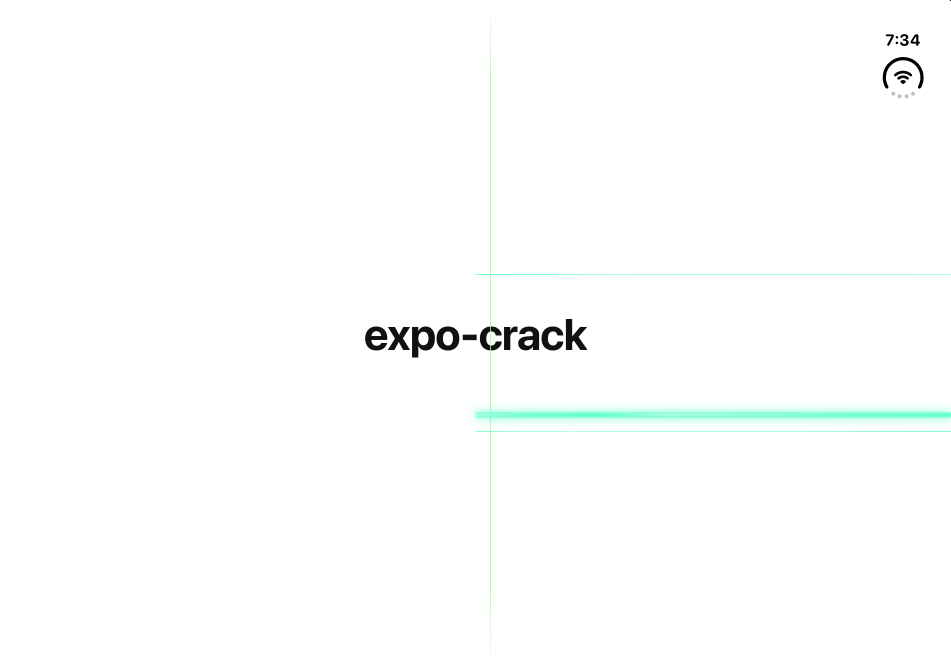
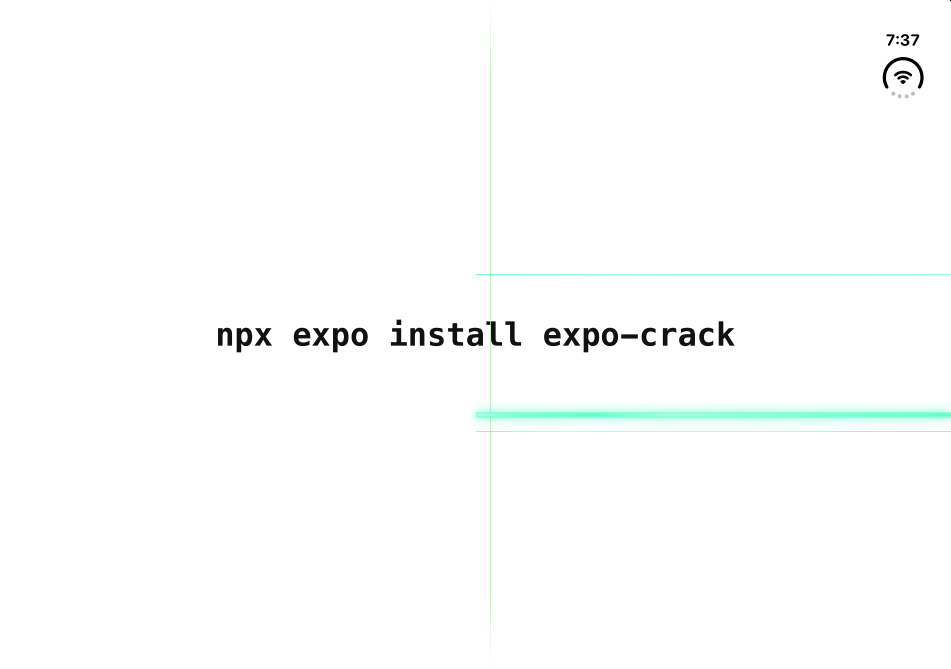
titles the example with the install command

Changed region(s): [[0.2135, 0.4783, 0.7928, 0.5381], [0.9453, 0.0299, 0.9758, 0.0897]]

diff --git a/example/App.tsx b/example/App.tsx
@@ -1,11 +1,13 @@
-import { StatusBar, StyleSheet, Text, View } from 'react-native';
+import { Platform, StatusBar, StyleSheet, Text, View } from 'react-native';
 
 // Nothing to see here. The green line comes from expo-crack being installed, no code needed.
 export default function App() {
   return (
     <View style={styles.screen}>
       <StatusBar barStyle="dark-content" />
-      <Text style={styles.title}>expo-crack</Text>
+      <Text style={styles.title} numberOfLines={1} adjustsFontSizeToFit minimumFontScale={0.5}>
+        npx expo install expo-crack
+      </Text>
     </View>
   );
 }
@@ -16,11 +18,12 @@ const styles = StyleSheet.create({
     backgroundColor: '#ffffff',
     alignItems: 'center',
     justifyContent: 'center',
+    paddingHorizontal: 24,
   },
   title: {
-    fontSize: 44,
-    fontWeight: '700',
-    letterSpacing: -1,
+    fontSize: 32,
+    fontWeight: '600',
     color: '#111111',
+    fontFamily: Platform.select({ ios: 'Menlo', android: 'monospace', default: 'monospace' }),
   },
 });
